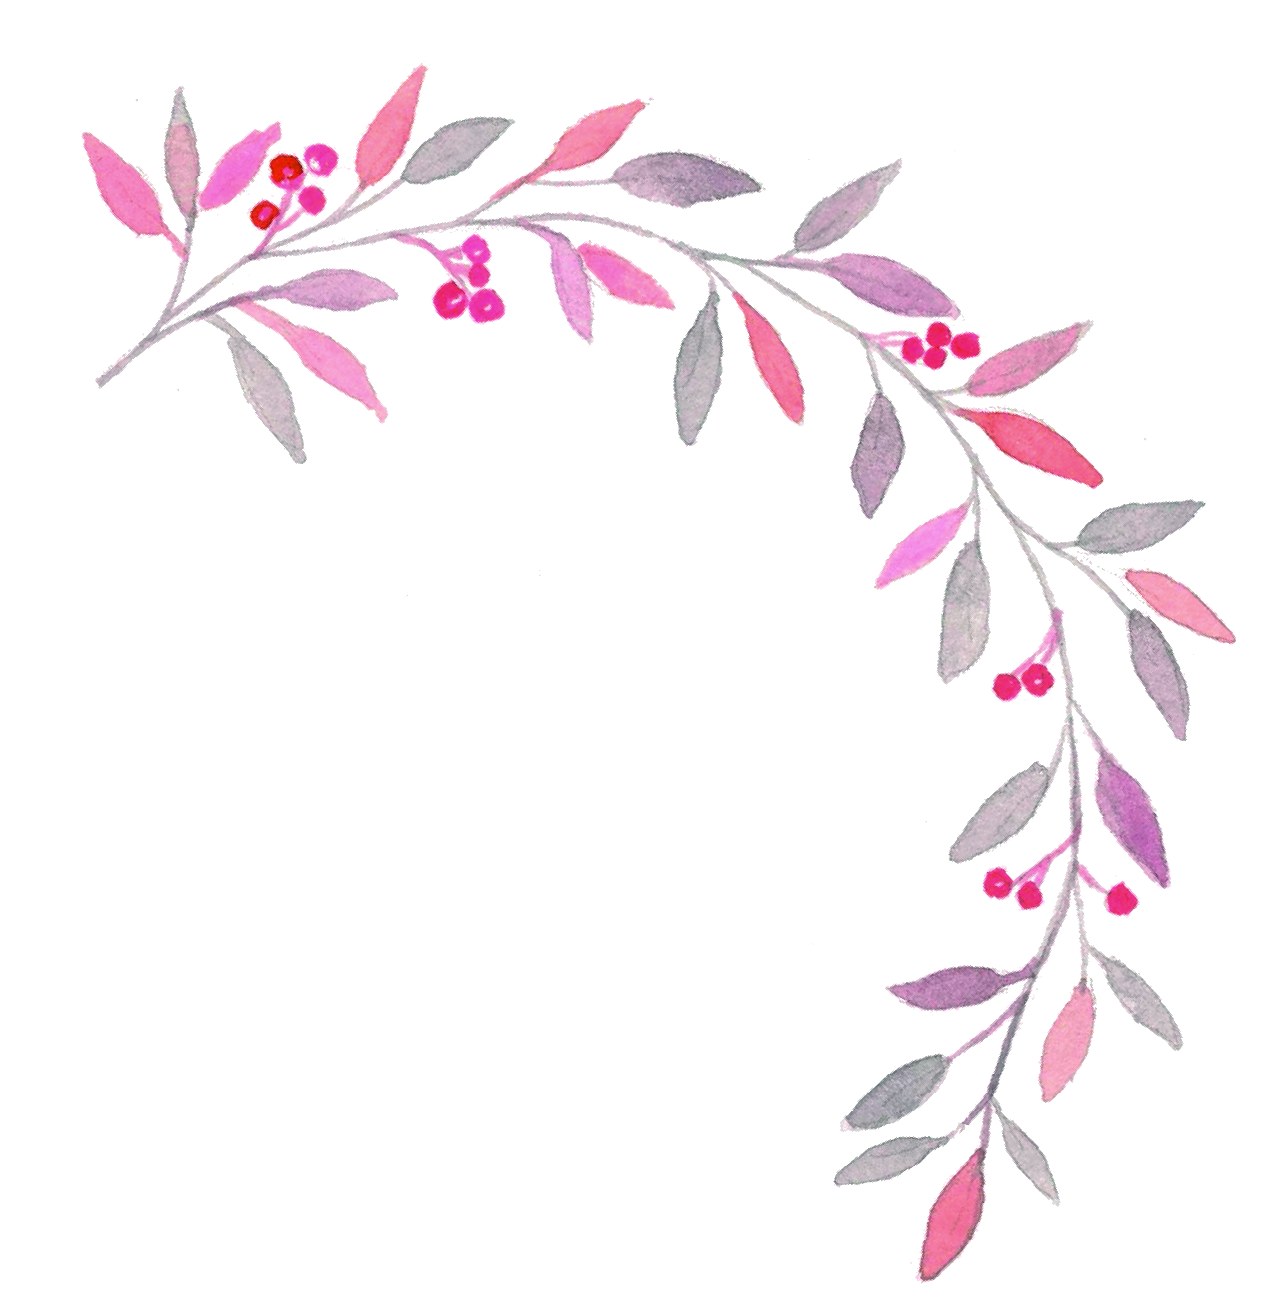
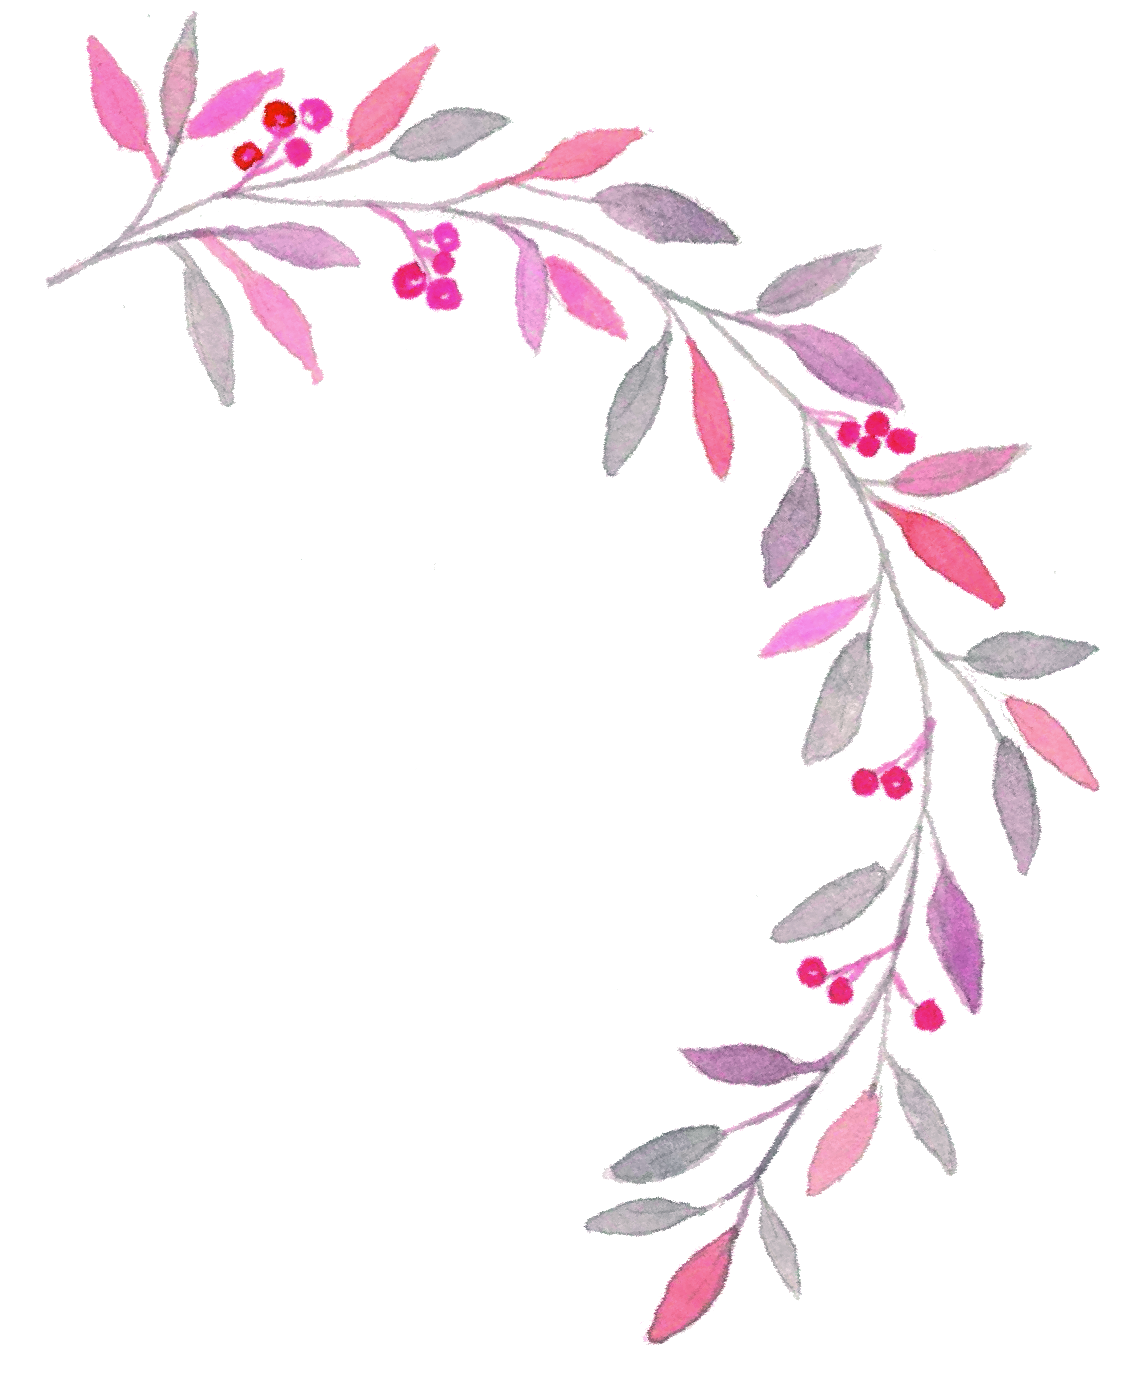
Photo layout should be complet

Changed region(s): [[0.0311, 0.0, 0.9956, 0.9869], [0.0622, 0.2776, 0.0933, 0.3084]]

diff --git a/photobooth/camera/__init__.py b/photobooth/camera/__init__.py
@@ -183,11 +183,11 @@ class Camera:
         jerab_fialovy = Image.open('jerab_fialovy_resized.png');
         pulvenec = Image.open('pulvenec_rotated.png');
 
-        pulvenec = pulvenec.rotate(90);
-        picture.paste(vetvicka, (10, 10), mask=vetvicka);
+        # pulvenec = pulvenec.rotate(90);
+        picture.paste(vetvicka, (-100, -100), mask=vetvicka);
         picture.paste(jerab_ruzovy, (30, 1500), mask=jerab_ruzovy);
         picture.paste(jerab_fialovy, (2500, 1500), mask=jerab_fialovy);
-        picture.paste(pulvenec, (2000, 10), mask=pulvenec);
+        picture.paste(pulvenec, (2700, -100), mask=pulvenec);
 
         byte_data = BytesIO()
         picture.save(byte_data, format='jpeg')
